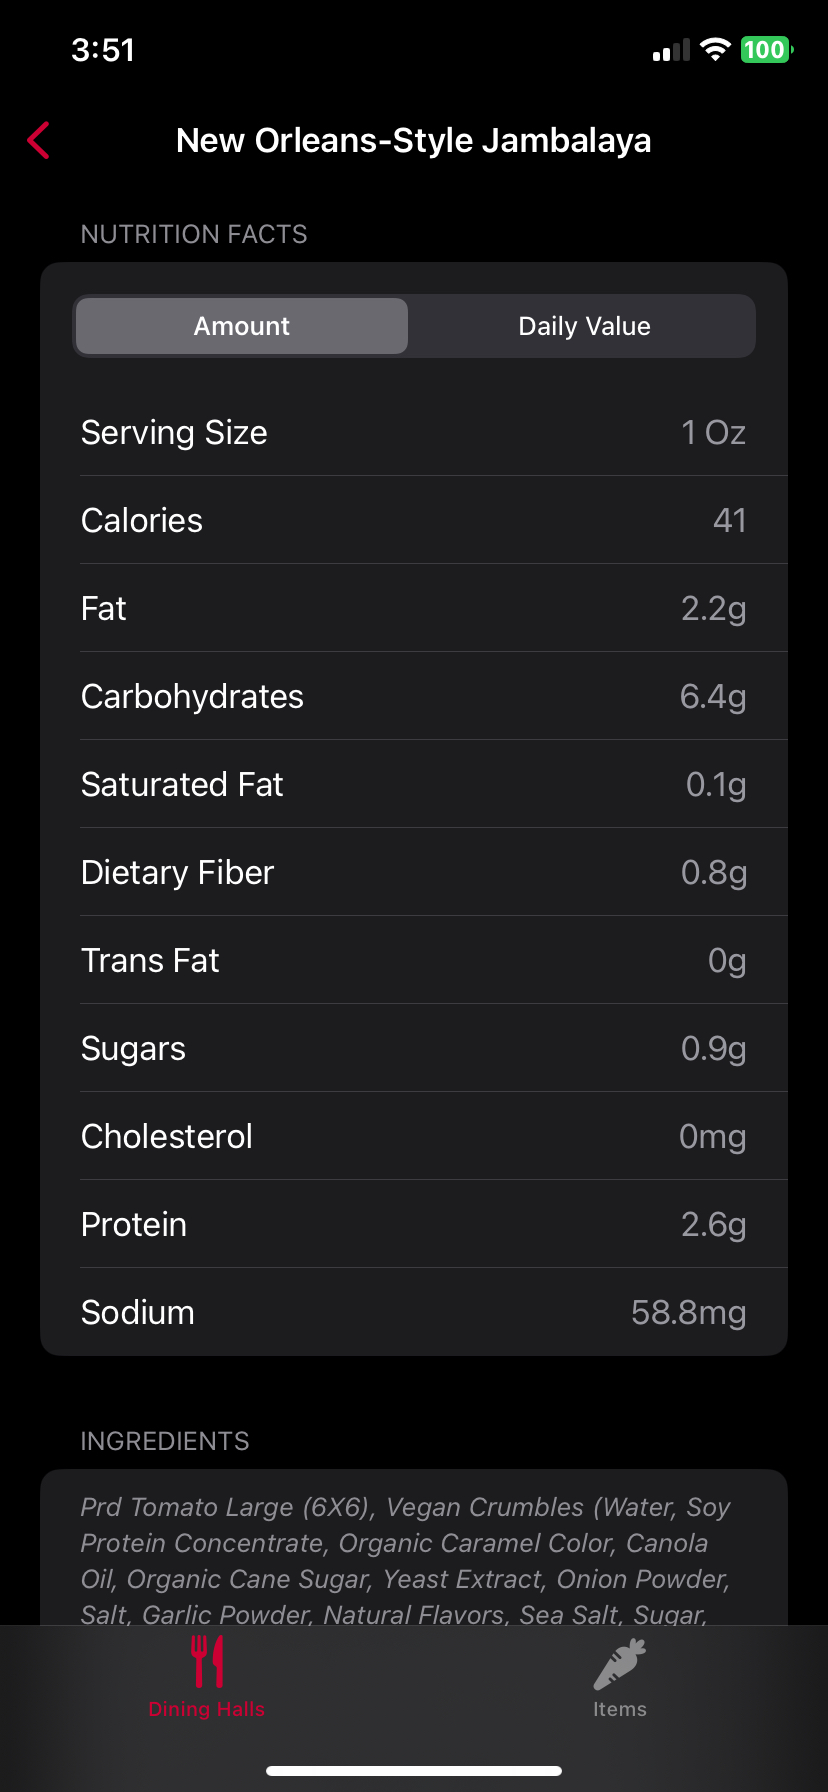
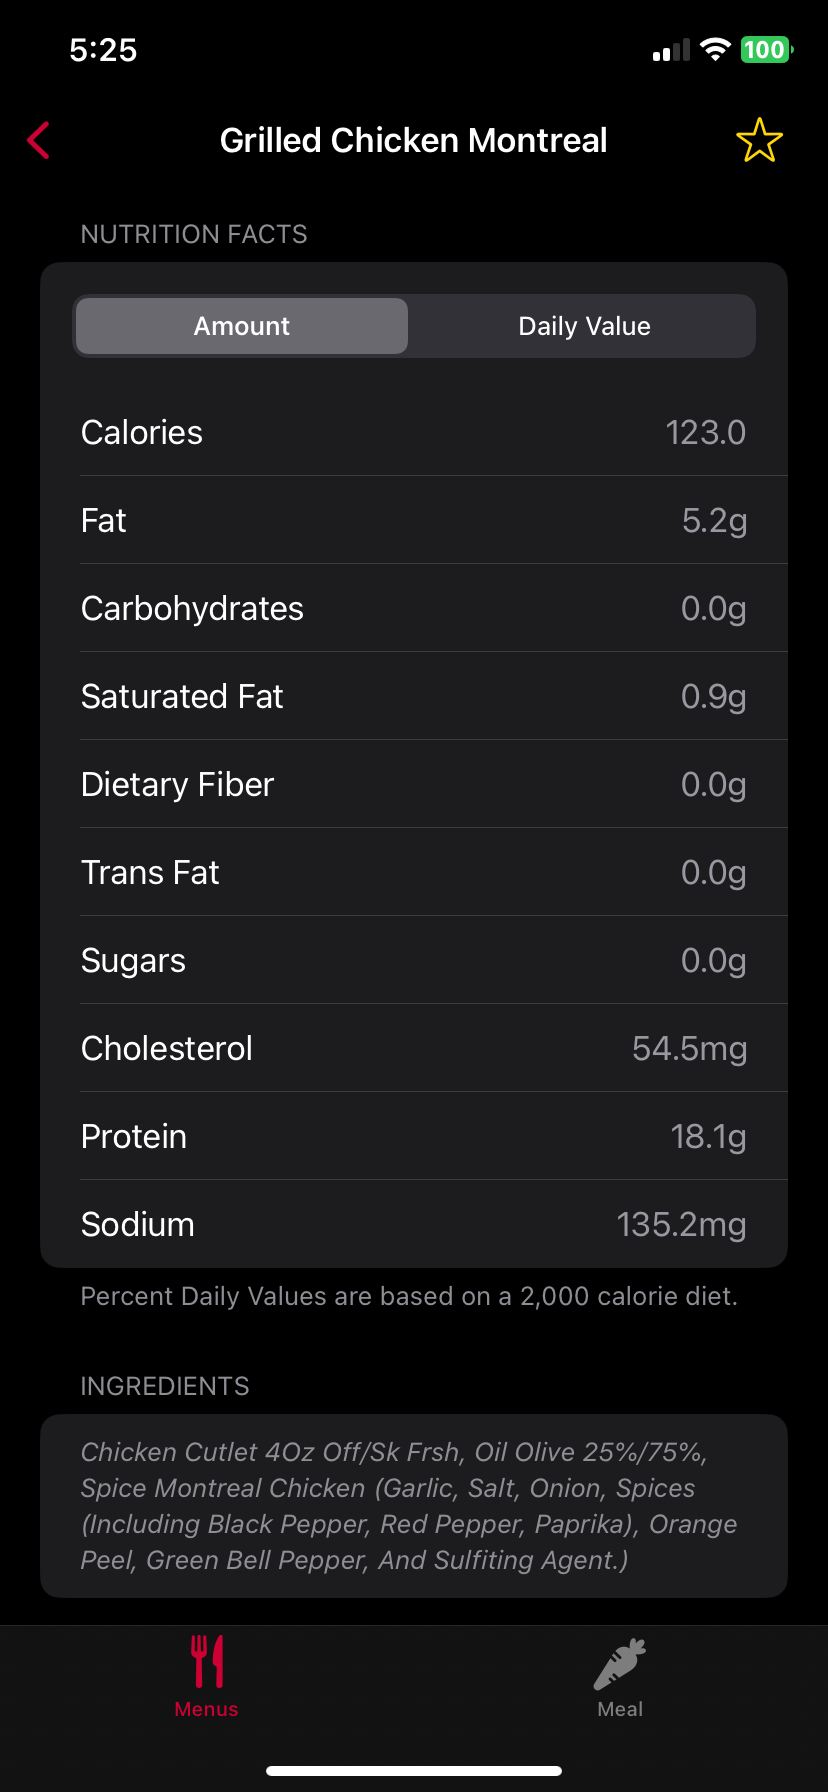
Update screemshots and README.md

diff --git a/README.md b/README.md
@@ -4,11 +4,15 @@ Rutgers dining hall menu app for iOS in Swift using SwiftUI and [SwiftSoup](http
 ## Features
 - Gets website data with http request (.aspx)
 - Parses data using SwiftSoup
+- Favoriting items
+- Filter ingredients for dietary restrictions
+- Calculate nutrition facts of an entire meal
 
 ## Screenshots
 <div display="flex">
-  <img src="./screenshots/dining-halls.png" width="24%">
-  <img src="./screenshots/menu.png" width="24%">
-  <img src="./screenshots/item.png" width="24%">
-  <img src="./screenshots/settings.png" width="24%">
+  <img src="./screenshots/menus.png" width="32%">
+  <img src="./screenshots/menu.png" width="32%">
+  <img src="./screenshots/item.png" width="32%">
+  <img src="./screenshots/calculator.png" width="32%">
+  <img src="./screenshots/settings.png" width="32%">
 </div>
